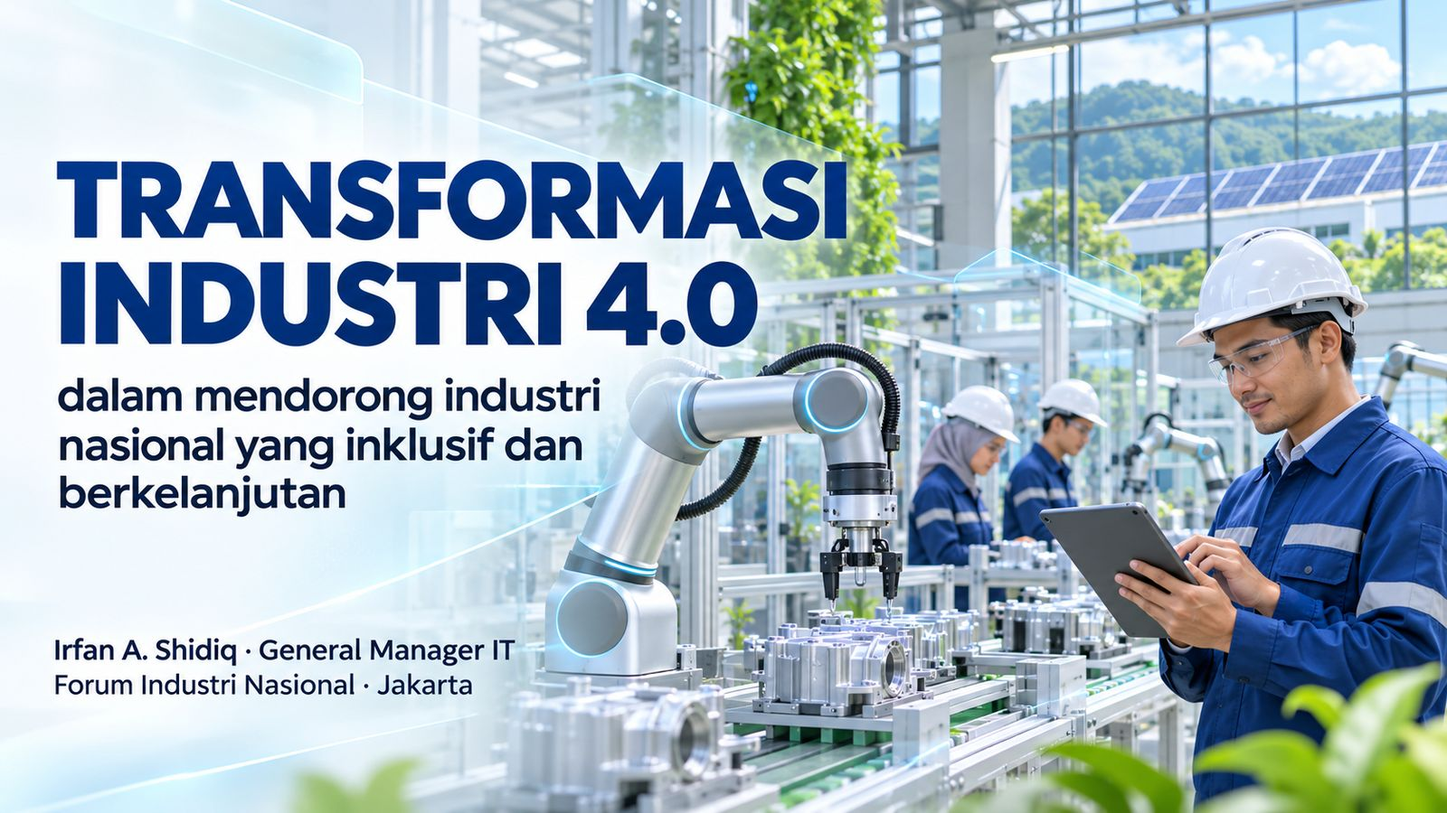
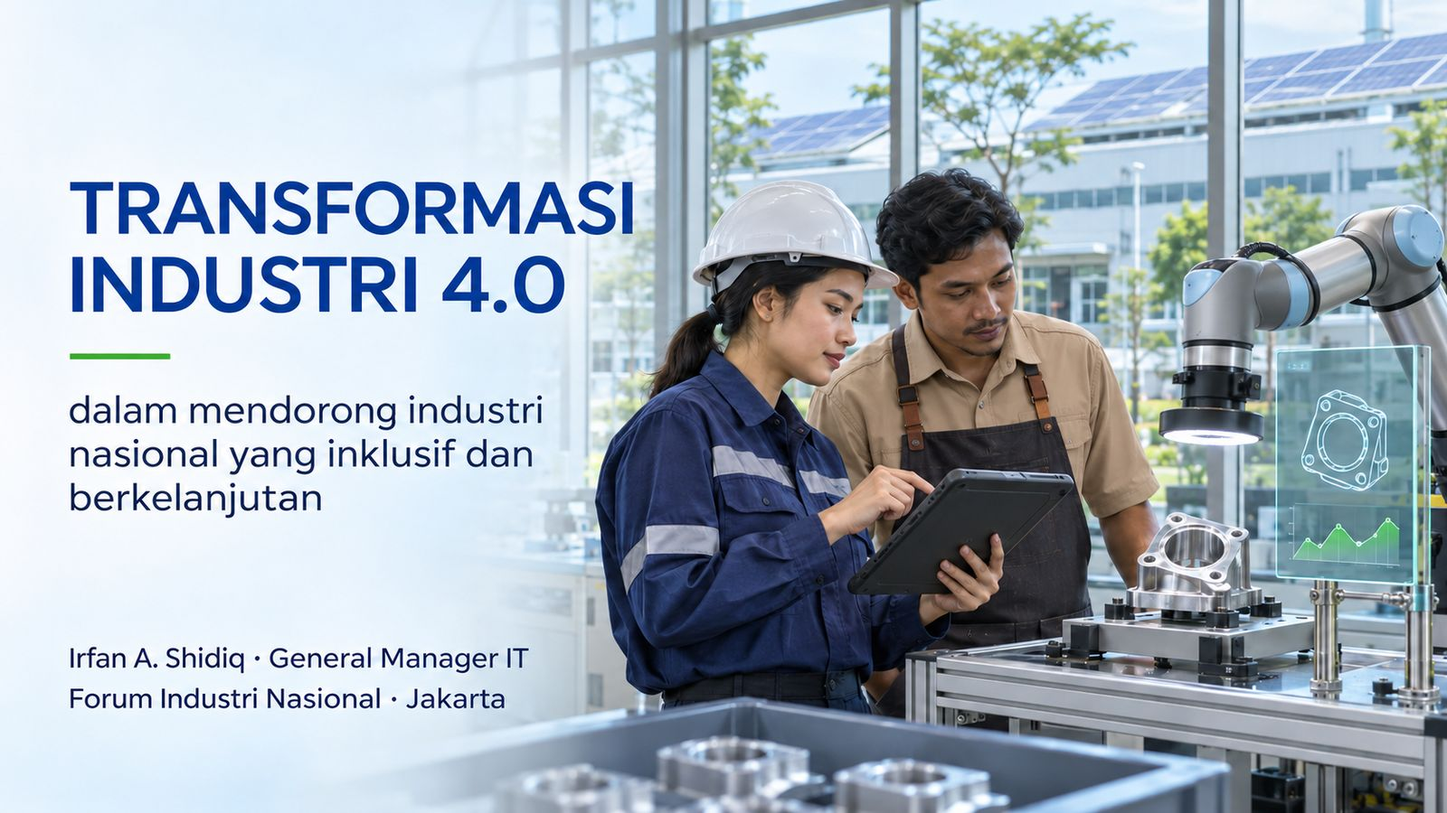
feat: mode poster sebagai satu-satunya gaya utama + perbaikan per slide + README lengkap
- hapus mode hybrid dari alur & dokumentasi; poster (full GPT Image) jadi gaya utama
- --fix N "instruksi": GPT Image mengedit satu slide, desain lain tetap; --options default ke gaya poster
- latar visual mengikuti topik (kantor, data center, kota, lapangan, pemerintahan, pabrik)
- README ditulis ulang: alur 6 langkah, 4 gaya, prinsip desain, cara mengubah isi slide, perintah, FAQ
- showcase baru dari prompt terbaru (font ringan, komposisi bervariasi, anti AI slop)

diff --git a/skills/ias-deck/engine/deck.css b/skills/ias-deck/engine/deck.css
@@ -575,3 +575,26 @@ h1.title.sm { font-size: calc(128px * var(--ts)); } h1.title.xs { font-size: cal
 /* tipografi lebih ringan (semi-bold) */
 .L-kpi .v, .duo .mt .v, .L-split .bigv, .tile .tg, .L-number .nv .v, .ins .iv, .L-vsm .sum .v, .L-scene .sc-c .v, .L-infographic .cv2, .cv .ix, .tl .wh { font-weight: 600 !important; }
 .L-section .num { font-weight: 600; }
+
+/* ================= HYBRID bergaya poster: foto hidup + data di panel kaca + tipografi poster ================= */
+[data-hybrid="on"] .decor, [data-hybrid="on"] .ghost, [data-hybrid="on"] .reticle { display: none !important; }
+[data-hybrid="on"] .slide::after { background: none; }
+[data-hybrid="on"] .title, [data-hybrid="on"] .big, [data-hybrid="on"] .duo .ct, [data-hybrid="on"] .band .nm, [data-hybrid="on"] .L-vsm .nm { text-transform: none !important; letter-spacing: -.015em !important; font-weight: 600 !important; }
+[data-hybrid="on"] h2.title { font-size: calc(70px * var(--ts)); }
+[data-hybrid="on"] .kicker::before, [data-hybrid="on"] .kicker::after { display: none; }
+[data-hybrid="on"] .kicker { letter-spacing: .14em; font-size: 20px; margin-bottom: 16px; }
+[data-hybrid="on"] .hero.bd img { filter: saturate(1.05) contrast(1.02); }
+[data-hybrid="on"] .hero.bd::after { background: linear-gradient(180deg, color-mix(in srgb, var(--bg) 92%, transparent) 0%, color-mix(in srgb, var(--bg) 60%, transparent) 18%, transparent 38%), linear-gradient(90deg, color-mix(in srgb, var(--bg) 45%, transparent) 0%, transparent 55%) !important; }
+[data-hybrid="on"] .slide:has(.hero.bd) .fx { display: none; }
+[data-hybrid="on"] .slide:has(.hero.bd) .card, [data-hybrid="on"] .slide:has(.hero.bd) .tbw, [data-hybrid="on"] .slide:has(.hero.bd) .cv {
+  background: linear-gradient(145deg, rgba(255,255,255,.62), rgba(255,255,255,.34)) !important; border: 1.5px solid rgba(255,255,255,.85) !important; outline: none !important; border-radius: 22px !important;
+  backdrop-filter: blur(22px) saturate(170%) !important; box-shadow: 0 30px 60px -28px rgba(10,30,70,.45), inset 0 1px 0 rgba(255,255,255,.9) !important; }
+[data-hybrid="on"] .slide:has(.hero.bd) .cv { clip-path: none; margin-right: 18px; }
+[data-hybrid="on"] .slide:has(.hero.bd) .cv:nth-child(even) { background: linear-gradient(145deg, color-mix(in srgb, var(--a) 26%, rgba(255,255,255,.6)), rgba(255,255,255,.36)) !important; }
+[data-hybrid="on"] .slide:has(.hero.bd) .card::before, [data-hybrid="on"] .slide:has(.hero.bd) .card::after { display: none; }
+[data-hybrid="on"] .L-kpi .card { min-height: 360px; } [data-hybrid="on"] .L-kpi .cards { align-content: end; padding-bottom: 10px; }
+[data-hybrid="on"] .L-kpi .ch { display: none; }
+[data-hybrid="on"] .slide:has(.hero.bd) .take { background: linear-gradient(90deg, rgba(255,255,255,.78), rgba(255,255,255,.45)); backdrop-filter: blur(16px); border-left: 0; border-radius: 16px; }
+[data-hybrid="on"] .ins { background: linear-gradient(160deg, color-mix(in srgb, var(--f) 78%, transparent), color-mix(in srgb, var(--f) 92%, transparent)) !important; backdrop-filter: blur(20px); border: 1.5px solid rgba(255,255,255,.35); }
+[data-hybrid="on"] .chart .gl { opacity: .5; }
+[data-hybrid="on"] .foot { display: none; }

diff --git a/skills/ias-deck/engine/deck.js b/skills/ias-deck/engine/deck.js
@@ -24,7 +24,7 @@
       '--fd': `"${theme.fd}"`, '--fb': `"${theme.fb}"`, '--fm': `"${theme.fm}"`, '--tw': theme.weight || 600,
       '--tu': theme.upper ? 'uppercase' : 'none', '--tt': theme.upper ? '.01em' : '-.015em', '--title-scale': theme.titleScale || (theme.upper ? .92 : 1) };
     Object.entries(v).forEach(([k, val]) => root.style.setProperty(k, val));
-    Object.assign(root.dataset, { theme: theme.id, family: theme.family, card: theme.card, decor: theme.decor, mode: theme.mode, chrome: D.chrome || 'clean' });
+    Object.assign(root.dataset, { theme: theme.id, family: theme.family, card: theme.card, decor: theme.decor, mode: theme.mode, chrome: D.chrome || 'clean', hybrid: D.hybrid ? 'on' : 'off' });
     [theme.fd, theme.fb, theme.fm].forEach(loadFont);
     initFx();
   }

diff --git a/README.md b/README.md
@@ -1,38 +1,16 @@
 # IAS Deck Skill
 
-**Skill pembuat presentasi futuristik bergaya cerah untuk Claude Code & Codex.**
-Cukup minta dalam bahasa biasa — *"buatkan deck 12 slide untuk Forum Kemenperin tentang lean digital factory"* — dan AI akan menyusun alur cerita, memilih layout, lalu menghasilkan:
+**Skill presentasi untuk Claude Code & Codex yang menghasilkan deck bergaya poster sinematik — cerah, penuh visual, dan detail sesuai materi.**
 
-| Keluaran | Untuk apa |
-|---|---|
-| **HTML live** | Tampil di panggung: animasi masuk, efek latar bergerak (HUD, blueprint, wireframe 3D, sirkuit…), presenter mode dengan catatan & timer, ganti tema seketika dengan tombol `T` |
-| **PDF** | Dibagikan ke peserta |
-| **PPTX** | Dikirim ke panitia / diedit di PowerPoint atau Keynote — teks & grafik asli, efek futuristik ikut sebagai latar |
+Cukup minta dalam bahasa biasa:
 
-- **Gaya cinematic tech yang cerah**: latar putih/pucat dengan gradien aurora, panel kaca putih, garis HUD tipis, tipografi display besar
-- **41 tema** dalam 6 keluarga: HUD / Command Center · Blueprint / Engineering · Digital Twin · Smart Factory · Data Terminal · Clean Future
-- **100 gambar hero render AI** (manufaktur, Industri 4.0, AI, robotik, IT, lean, Indonesia/Kemenperin, latar 3D abstrak), dipilih otomatis sesuai judul slide. Galeri: `skills/ias-deck/assets/heroes/index.html`
-- **25 layout** khusus materi industri (termasuk waterfall/bridge, Pareto, angka raksasa, deret pilar berikon, kolase foto gaya poster Kemenperin)
-- **102 ikon** (Lucide), dipasang otomatis sesuai kata kunci di kartu, poin, agenda, proses, roadmap
-- **Design Picker**: satu halaman untuk klik tema + gambar, lalu salin pilihan ke chat AI
-- **Gambar AI khusus per slide** lewat GPT Image (Codex, login akun ChatGPT): `render.mjs deck.json --imagine`
-- **Slide sinematik yang tetap editable**: `scene` (foto AI + angka di panel kaca mengambang) dan `infographic` (ilustrasi 3D AI + kartu penjelasan)
-- **Mode hybrid (default)**: setiap slide = visual GPT Image (tanpa teks) + judul, angka, grafik, ikon dari engine yang akurat & bisa diedit. Alur: outline → `--options` (3 tema) → pilih → `--hybrid --all`
-- **Mode poster (opsional)**: outline → 3 opsi gaya desain (`--options`) → pilih → `--poster` merender tiap slide utuh dengan GPT Image, detail sesuai materi. Keluaran **PDF + PPTX** (+ pemutar HTML)
-- **Review visual otomatis**: `--review` membuat lembar pratinjau semua slide + rubrik penilaian, AI memperbaiki slide yang lemah
-- Angka penting otomatis tampil besar, slide pernyataan/kutipan/agenda otomatis diberi panel foto (tidak ada ruang kosong)
-- Pola dari referensi: kesimpulan per slide, sumber data, panel insight berangka besar, pita sorotan `==frasa==`
-- Layout dasar: KPI, value stream map, siklus PDCA, 8 waste (TIMWOODS), sebelum–sesudah, roadmap, arsitektur berlapis, grafik, tabel, dan lainnya
-- Semua tema lolos uji kontras WCAG, sehingga tetap terbaca di proyektor ruangan besar
-- Logo & warna aksen bisa diganti per acara (Astra, Kemenperin, pribadi)
+> *"Buatkan deck 12 slide untuk Forum Kemenperin tentang transformasi digital di grup otomotif. Durasi 20 menit."*
+
+AI akan menyusun alur cerita, menawarkan 3 pilihan gaya desain, lalu — setelah Anda memilih — merender setiap slide utuh dengan **GPT Image** (lewat Codex, memakai akun ChatGPT Anda). Hasil akhirnya **PDF** dan **PPTX** yang siap dipresentasikan.
+
+---
 
 ## Contoh hasil desain
-
-### Mode hybrid (default) — AI Quality Inspection
-Visual setiap slide dibuat GPT Image; judul, angka, grafik, dan ikon digambar engine sehingga akurat dan bisa diedit di PPTX.
-![Mode hybrid](docs/showcase/00-mode-hybrid.jpg)
-
-### Mode poster — setiap slide dirender utuh oleh GPT Image
 
 ### Lean Digital Factory
 ![Sampul Lean Digital Factory](docs/showcase/01-lean-digital-factory-sampul.jpg)
@@ -42,15 +20,49 @@ Visual setiap slide dibuat GPT Image; judul, angka, grafik, dan ikon digambar en
 ![Sampul Transformasi Industri](docs/showcase/02-transformasi-industri-sampul.jpg)
 ![Isi Transformasi Industri](docs/showcase/02-transformasi-industri-isi.jpg)
 
-### AI Predictive Maintenance
-![Sampul AI Predictive Maintenance](docs/showcase/03-ai-predictive-maintenance-sampul.jpg)
-![Isi AI Predictive Maintenance](docs/showcase/03-ai-predictive-maintenance-isi.jpg)
+### AI Quality Inspection
+![Sampul AI Quality Inspection](docs/showcase/03-ai-quality-inspection-sampul.jpg)
+![Isi AI Quality Inspection](docs/showcase/03-ai-quality-inspection-isi.jpg)
 
 ---
 
-## 1. Pasang (sekali saja, ±3 menit)
+## Cara kerjanya (alur standar)
 
-Butuh: Mac dengan **Google Chrome**, **Node.js 18+** (`brew install node`), **Python 3**, dan akses ke repo ini.
+| Langkah | Yang terjadi | Yang Anda lakukan |
+|---|---|---|
+| **1. Brief** | AI menanyakan maksimal 3 hal: topik & acara, durasi, nuansa. | Jawab singkat, atau langsung beri detail di permintaan. |
+| **2. Outline** | AI menampilkan tabel alur slide: nomor, jenis slide, judul, angka penting. Belum ada gambar yang dibuat. | Setujui atau minta ubah. |
+| **3. Opsi gaya** | Sampul + 1 slide isi dirender dalam **3 gaya** sekaligus (±3 menit). | Pilih: *"Pakai Gaya B"*. |
+| **4. Generate penuh** | Semua slide dirender dengan gaya pilihan — 4 proses berjalan paralel (±1–2 menit per 3 slide). | Tunggu. |
+| **5. Pemeriksaan** | AI memeriksa setiap slide: ejaan, angka, kecocokan visual dengan materi, tanda "AI slop". Slide yang bermasalah diperbaiki. | Minta perubahan bila perlu: *"slide 4 angkanya jadi 50%"*. |
+| **6. Hasil** | `nama-poster.pdf`, `nama-poster.pptx` (dengan catatan pembicara), dan `nama-poster.html` (presentasi di browser). | Presentasikan. |
+
+### Pilihan gaya
+
+| Gaya | Karakter | Cocok untuk |
+|---|---|---|
+| **A · Glass Tech** (`glass`) | Cerah putih-biru, foto realistis, panel kaca hologram berisi angka, ikon 3D | Keynote teknologi, digitalisasi, AI |
+| **B · Editorial Nasional** (`editorial`) | Poster institusi navy & hijau, kolase foto bersudut/heksagon, pita sorotan, deret ikon bulat | Forum kementerian, acara resmi, kebijakan |
+| **C · Isometric 3D** (`isometric`) | Dunia ilustrasi 3D isometrik yang bersih dan ramah | Penjelasan proses, edukasi, konsep sistem |
+| **D · Cinematic Sunrise** (`cinematic`) | Fotografi sinematik cahaya pagi, hangat dan megah | Visi, pembukaan acara, penutupan |
+
+### Materi apa saja
+Latar visual mengikuti topik — **bukan selalu pabrik**: kantor & ruang rapat (strategi, SDM, budaya kerja), data center & ruang kendali (IT, AI, keamanan siber), kota pintar & layanan (digitalisasi), tambang/perkebunan/konstruksi/logistik (operasi lapangan), gedung pemerintahan (kebijakan), kampus (pelatihan), dan pabrik bila memang membahas manufaktur.
+
+### Prinsip desain yang dijaga otomatis
+- **Satu slide, satu pesan.** Judul berupa kesimpulan, bukan topik.
+- **Teks singkat, visual detail.** Judul ≤ 8 kata, label ≤ 4 kata; isi materi lengkap dipakai sebagai petunjuk gambar sehingga setiap poin divisualkan secara spesifik.
+- **Komposisi bervariasi.** Foto utama, kartu data dalam adegan, diagram 3D, tipografi besar, perbandingan split — dua slide berurutan tidak pernah sama.
+- **Grafik sesuai makna data.** Tren → garis, perbandingan → batang, peringkat → batang horizontal, porsi → donut. Grafik *waterfall* maksimal satu per deck.
+- **Anti "AI slop".** Satu fokus visual per slide, cahaya dan proporsi realistis, tanpa glow berlebihan, ikon melayang acak, dashboard palsu, wajah plastik, atau gradien ungu.
+- **Tipografi elegan.** Judul semi-bold, label regular — tidak tebal berlebihan.
+- **Angka tidak dikarang.** Bila data belum ada, slide diberi label "(data ilustrasi)".
+
+---
+
+## 1. Pemasangan (sekali, ±3 menit)
+
+**Kebutuhan:** Mac · [Google Chrome](https://google.com/chrome) · [Node.js 18+](https://nodejs.org) (`brew install node`) · Python 3 · [Codex CLI](https://github.com/openai/codex) yang sudah login akun ChatGPT.
 
 ```bash
 git clone --recurse-submodules https://github.com/ffaizdaffa/ias-deck-skill.git
@@ -58,100 +70,116 @@ cd ias-deck-skill
 ./install.sh
 ```
 
-Installer akan:
-1. memeriksa Node, Chrome, Python, lalu memasang `python-pptx`;
-2. menyalin skill `ias-deck` ke `~/.claude/skills/` **dan** `~/.codex/skills/`;
-3. memasang 3 skill bundel (lihat bagian 5);
-4. memasang 31 keluarga font tema (Google Fonts) agar PPTX tampil persis.
-
-Opsi: `./install.sh --lite` (IAS Deck saja) · `./install.sh --no-fonts`.
-**Update:** `git pull --recurse-submodules && ./install.sh`
-
-## 2. Pakai
-
-**Alur yang disarankan:**
-1. Buka `out/picker.html` (dibuat oleh installer), klik **1 tema** dan beberapa **gambar**, tekan **Salin pilihan**.
-2. Buka sesi **baru** Claude Code atau Codex, tempel pilihan tadi, lalu tulis permintaan. Kalau tema belum dipilih, AI akan membuka Design Picker dulu.
-3. Opsional: minta *"buatkan gambar AI khusus tiap slide"* — AI menjalankan `--imagine` (butuh `codex login` dengan akun ChatGPT, ±1 menit per gambar).
-
-Contoh permintaan:
-
-> Buatkan deck 15 slide untuk keynote 25 menit di Forum Industri 4.0 Kemenperin. Topik: lean manufacturing ketemu digital — OEE, SMED, value stream, roadmap 18 bulan. Pembicara Irfan A. Shidiq, GM IT. Tema bp-classic, logo di ./logo.png.
-
-AI akan menampilkan alur cerita, menulis file `deck/*.json`, merender, mengecek teks yang meluber, lalu memberikan path filenya.
-
-Revisi cukup lewat chat: *"slide 5 jadi value stream map"*, *"ganti ke tema clean-merahputih"*, *"tambah slide sebelum–sesudah changeover"*.
-
-### Tombol saat presentasi (buka file `.html` di Chrome)
-| Tombol | Fungsi |
-|---|---|
-| `F` | layar penuh |
-| `→` `←` / klik kanan–kiri | pindah slide |
-| `P` | **presenter mode** di jendela kedua: slide sekarang & berikutnya, catatan, timer |
-| `G` / `Esc` | ikhtisar semua slide |
-| `T` / `Shift+T` | ganti tema (coba 40 tema secara langsung) |
-| `B` | layar gelap |
-| `?` | bantuan |
-
-## 3. Galeri tema
+Login Codex (sekali saja, pilih *Sign in with ChatGPT*):
 
 ```bash
-node skills/ias-deck/engine/render.mjs --gallery --out out && open out/gallery.html
+codex login
 ```
-Daftar lengkap & rekomendasi per jenis acara: [`skills/ias-deck/references/themes.md`](skills/ias-deck/references/themes.md).
 
-Rekomendasi cepat: forum resmi Kemenperin → `clean-merahputih`, `clean-porcelain`, `hud-arctic` · keynote IT/AI → `hud-cobalt`, `hud-ion`, `twin-hologram` · lean/shop-floor → `bp-classic`, `fac-safety`.
+Installer akan:
+1. memeriksa Node, Chrome, Python, dan memasang `python-pptx`;
+2. memasang skill `ias-deck` ke `~/.claude/skills/` **dan** `~/.codex/skills/`;
+3. memasang 3 skill pendukung (bagian 6);
+4. memasang font tema;
+5. menyiapkan halaman pemilih tema (`out/picker.html`) dan memeriksa Codex.
 
-Gambar hero: buka `skills/ias-deck/assets/heroes/index.html`, lalu sebut id-nya ke AI (mis. *"sampul pakai mfg-digital-twin"*).
+**Memperbarui:** `git pull --recurse-submodules && ./install.sh`
 
-## 4. Pakai manual (tanpa AI)
+---
+
+## 2. Cara memakai
+
+Buka sesi **baru** Claude Code atau Codex di folder kerja mana pun, lalu tulis permintaan. Contoh:
+
+> *Buatkan deck 10 slide, keynote 20 menit di seminar Kemenperin. Topik: AI untuk predictive maintenance di pabrik komponen otomotif. Pembicara Irfan A. Shidiq, GM IT. Data: downtime turun 45%, biaya suku cadang turun 20%.*
+
+> *Buat deck 8 slide tentang strategi digitalisasi layanan keuangan untuk rapat direksi, nuansa formal.*
+
+Selama proses, cukup jawab dengan bahasa biasa:
+- *"Outline-nya oke, lanjut."*
+- *"Pakai Gaya B."*
+- *"Slide 5 angkanya ganti jadi 52%."* → AI memperbaiki slide itu saja.
+- *"Slide 3 gambarnya kurang cocok, ulang."* → AI merender ulang slide itu.
+
+### Hasil yang Anda terima
+| File | Isi |
+|---|---|
+| `out/<nama>-poster.pdf` | Deck siap kirim / cetak |
+| `out/<nama>-poster.pptx` | Satu gambar per slide + catatan pembicara (untuk presenter view PowerPoint/Keynote) |
+| `out/<nama>-poster.html` | Presentasi di browser: `→`/`←` pindah slide, `F` layar penuh |
+
+---
+
+## 3. Mengubah isi slide
+
+Setiap slide adalah satu desain utuh dari GPT Image. Untuk mengubah isi, jangan mengedit di PowerPoint — minta saja ke AI:
+
+| Kebutuhan | Contoh permintaan | Yang terjadi |
+|---|---|---|
+| Ganti angka / kata | *"Slide 4, ganti 45% jadi 50%"* | Hanya slide 4 yang diedit; desain lain tetap sama (±1 menit) |
+| Ganti visual | *"Slide 3 gambarnya kurang cocok, tampilkan ruang rapat"* | Slide 3 dirender ulang dengan arahan baru |
+| Tambah / hapus slide | *"Tambah slide roadmap setelah slide 6"* | Outline diperbarui, slide baru dirender dengan gaya yang sama |
+| Ganti gaya seluruh deck | *"Coba gaya Editorial Nasional"* | Seluruh slide dirender ulang dengan gaya baru |
+
+Versi sebelumnya tetap tersimpan, jadi perubahan selalu bisa dibatalkan.
+
+## 4. Perintah manual (tanpa AI)
+
+Semua perintah dijalankan dari folder repo.
 
 ```bash
 E=skills/ias-deck/engine
-node $E/render.mjs skills/ias-deck/examples/lean-kemenperin.json --out out --all   # HTML + PDF + PPTX
-node $E/render.mjs deck.json --theme hud-arctic                                     # coba tema lain
-node $E/render.mjs deck.json --check                                                # cek teks meluber
-node $E/render.mjs --list                                                           # daftar tema & layout
-node $E/check-themes.mjs                                                            # uji kontras 40 tema
+node $E/render.mjs deck.json --options --out out                 # 3 opsi gaya (sampul + 1 slide isi)
+node $E/render.mjs deck.json --poster --out out                  # deck penuh mode poster → PDF + PPTX + HTML
+node $E/render.mjs deck.json --fix 4 "ganti 45% menjadi 50%"     # perbaiki satu slide, sisanya tetap
+node $E/render.mjs deck.json --poster --slides 4 --force         # render ulang satu slide dari nol
+node $E/render.mjs deck.json --all                               # cadangan tanpa Codex (template, bisa diedit)
+node $E/render.mjs --list                                        # daftar tema & jenis slide
 ```
-Format deck: [`skills/ias-deck/references/layouts.md`](skills/ias-deck/references/layouts.md).
 
-## 5. Skill bundel (lisensi MIT, dari komunitas)
+Gaya poster dipilih lewat field `"posterStyle"` di file deck (`glass`, `editorial`, `isometric`, `cinematic`); latar visual lewat `"topic"`.
+Contoh file deck ada di `skills/ias-deck/examples/`. Format lengkap: [`skills/ias-deck/references/layouts.md`](skills/ias-deck/references/layouts.md).
 
-Terpasang otomatis sebagai alternatif kalau ingin gaya lain. Bisa dipanggil langsung di Claude/Codex.
+---
 
-| Skill | Sumber | Kelebihan |
-|---|---|---|
-| `html-ppt` | [lewislulu/html-ppt-skill](https://github.com/lewislulu/html-ppt-skill) | 36 tema HTML, 47 animasi, presenter mode |
-| `frontend-slides` | [zarazhangrui/frontend-slides](https://github.com/zarazhangrui/frontend-slides) | Deck HTML gaya bebas dari kemampuan frontend AI |
-| `ppt-master` | [hugohe3/ppt-master](https://github.com/hugohe3/ppt-master) | PPTX native dari dokumen/PDF, animasi & grafik asli (butuh `pip3 install -r ~/.claude/skills/ppt-master/requirements.txt`) |
-
-Disimpan sebagai git submodule di `vendor/` dengan lisensi aslinya masing-masing. Skill AGPL ([guizang-ppt-skill](https://github.com/op7418/guizang-ppt-skill), [dashi-ppt-skill](https://github.com/chuspeeism/dashi-ppt-skill)) dan yang tanpa lisensi tidak disertakan, hanya ditautkan di sini.
-
-## 6. Struktur
+## 5. Isi repo
 
 ```
 skills/ias-deck/
-  SKILL.md                 instruksi untuk Claude/Codex
-  references/              tema, layout, panduan cerita
-  examples/                contoh deck lean (18 slide)
-  assets/heroes/           100 gambar hero + heroes.json (tag) + index.html (galeri)
+  SKILL.md                  instruksi kerja untuk Claude/Codex (alur, aturan desain, cara memeriksa)
+  references/               panduan jenis slide, tema, cerita, ikon, pustaka gambar
+  examples/                 contoh deck (lean, transformasi industri, AI predictive maintenance, AI quality inspection)
+  assets/heroes/            100 gambar pendukung + galeri (index.html)
   engine/
-    themes.json            40 tema cerah (warna, font, efek, gaya kartu)
-    layouts.mjs            21 layout
-    deck.css / deck.js     tampilan & runtime (navigasi, presenter, animasi)
-    fx.js                  12 efek latar canvas
-    render.mjs             JSON → HTML/PDF/PPTX, galeri, cek overflow
-    export_pptx.py         PPTX editable (python-pptx)
-    check-themes.mjs       uji kontras & kelengkapan tema
-    install-fonts.mjs      pemasang font
-vendor/                    3 skill MIT (submodule)
-tools/build_heroes.py      membangun ulang pustaka hero dari PNG hasil generate
-install.sh
+    render.mjs              perintah utama: poster, opsi gaya, perbaikan slide
+    poster.mjs              mode poster: gaya, arahan visual per slide, aturan anti AI slop, perbaikan slide
+    layouts.mjs, deck.css, deck.js, export_pptx.py   versi cadangan berbasis template (tanpa Codex)
+    themes.json             41 tema warna & tipografi
+docs/showcase/              gambar contoh di README
+install.sh                  pemasang satu perintah
+vendor/                     3 skill pendukung berlisensi MIT
 ```
 
-## Masalah umum
-- **Font di PPTX berbeda** → jalankan ulang `node skills/ias-deck/engine/install-fonts.mjs`, lalu tutup dan buka lagi PowerPoint/Keynote.
-- **"Chrome tidak ditemukan"** → pasang Google Chrome, atau set `CHROME=/path/ke/chrome`.
-- **Font tidak muncul di HTML** → HTML memuat font dari Google Fonts, jadi butuh internet. Kalau tampil offline, font yang sudah terpasang lewat installer tetap dipakai.
-- **Skill tidak terdeteksi** → pastikan memulai sesi Claude/Codex *baru* setelah install.
+---
+
+## 6. Skill pendukung (lisensi MIT)
+
+Terpasang otomatis sebagai alternatif: `html-ppt` (deck HTML beranimasi), `frontend-slides` (deck HTML gaya bebas), `ppt-master` (PPTX native dari dokumen). Masing-masing tetap memakai lisensi aslinya di folder `vendor/`.
+
+---
+
+## 7. Pertanyaan umum
+
+**Berapa lama membuat satu deck?** Outline ±1 menit, opsi gaya ±3 menit, deck 10 slide ±4–6 menit.
+
+**Apakah ada biaya tambahan?** Gambar dibuat lewat Codex memakai kuota akun ChatGPT Anda; tidak ada layanan lain yang ditagih.
+
+**Teks di slide salah ketik / angka keliru?** Minta perbaikan: *"slide 6, ganti 'Goresan' jadi 'Gores'"* — hanya slide itu yang diedit.
+
+**Bisa diedit di PowerPoint?** Setiap slide berupa gambar desain utuh. Perubahan isi dilakukan lewat permintaan ke AI (lihat bagian 3) — lebih cepat dan desain tetap rapi.
+
+**Bisa pakai logo perusahaan?** Ya. Visual AI sengaja tanpa logo; logo resmi ditempel di PPTX akhir (misalnya di pojok setiap slide).
+
+**Codex belum login?** Jalankan `codex login` (pilih *Sign in with ChatGPT*). Tanpa Codex, AI hanya bisa membuat versi template sederhana sebagai cadangan.
+
+**Skill tidak muncul?** Pastikan membuka sesi Claude Code/Codex **baru** setelah `./install.sh`.

diff --git a/skills/ias-deck/SKILL.md b/skills/ias-deck/SKILL.md
@@ -1,6 +1,6 @@
 ---
 name: ias-deck
-description: Bikin presentasi/deck/PPT/slide futuristik berkelas dunia bergaya CERAH — default MODE HYBRID: visual GPT Image (Codex) di setiap slide + teks, angka, grafik, ikon yang akurat & editable (cinematic tech, panel kaca putih, HUD tipis, gradien aurora) — 40 tema (HUD, blueprint, digital twin, smart factory, data terminal, clean future), 100 gambar hero AI (manufaktur, AI, robotik, IT, Indonesia/Kemenperin) & 21 layout industri (KPI, value stream map, PDCA, TIMWOODS, roadmap, arsitektur, grafik). Keluaran HTML live beranimasi + PDF + PPTX yang bisa diedit. Pakai saat diminta "buat deck/PPT/slide/presentasi/materi pembicara/keynote", terutama topik lean manufacturing, industri 4.0, transformasi digital, IT.
+description: Bikin presentasi/deck/PPT/slide futuristik berkelas dunia bergaya CERAH — default MODE POSTER: tiap slide dirender utuh oleh GPT Image (Codex) setelah user memilih dari 3 opsi gaya; bisa diperbaiki per slide (--fix) (cinematic tech, panel kaca putih, HUD tipis, gradien aurora) — 40 tema (HUD, blueprint, digital twin, smart factory, data terminal, clean future), 100 gambar hero AI (manufaktur, AI, robotik, IT, Indonesia/Kemenperin) & 21 layout industri (KPI, value stream map, PDCA, TIMWOODS, roadmap, arsitektur, grafik). Keluaran HTML live beranimasi + PDF + PPTX yang bisa diedit. Pakai saat diminta "buat deck/PPT/slide/presentasi/materi pembicara/keynote", terutama topik lean manufacturing, industri 4.0, transformasi digital, IT.
 ---
 
 # IAS Deck
@@ -74,20 +74,21 @@ Butuh: Node 18+, Google Chrome, Python 3 + `python-pptx` (untuk PPTX), internet 
   `"/Applications/Google Chrome.app/Contents/MacOS/Google Chrome" --headless=new --window-size=1920,1080 --virtual-time-budget=6000 --screenshot=out/s3.png "file://$PWD/out/acara.html?export=3"`
 - Pastikan tidak ada teks terpotong, tumpang tindih, atau kontras buruk.
 
-### 6a. ALUR UTAMA — MODE HYBRID (default): outline → opsi desain → pilih → generate
-Mode hybrid = dalam SATU slide ada dua lapisan: **visual dari GPT Image** (foto adegan / ilustrasi 3D, tanpa teks) + **lapisan informasi dari engine** (judul, angka, grafik akurat, ikon, panel kaca — teks asli, bisa diedit, tanpa salah ketik).
-1. **Outline dulu**: tampilkan tabel alur slide (nomor, layout, judul, isi singkat) → minta persetujuan. Jangan generate sebelum disetujui.
-2. **Opsi desain**: `node SKILL_DIR/engine/render.mjs deck.json --options --out ./out` → visual AI sampul + 1 slide isi dibuat sekali, ditampilkan dalam 3 tema berbeda (`--themes a,b,c` untuk memilih sendiri). Kirim gambar `out/<nama>-opsi/` ke user dan **tunggu pilihannya**.
-3. **Generate penuh**: set `"theme"` sesuai pilihan, lalu `node SKILL_DIR/engine/render.mjs deck.json --hybrid --all --review --out ./out` → setiap slide diberi visual GPT Image yang sesuai perannya (foto penuh untuk sampul/penutup, latar redup di belakang data untuk KPI/grafik/proses, panel foto di samping untuk poin/pernyataan, ilustrasi 3D untuk infographic), dibuat dalam 4 sesi paralel.
-4. **Keluaran**: `out/<nama>.pptx` (teks & grafik editable, visual sebagai gambar) + `out/<nama>.pdf` + `out/<nama>.html` (presentasi di browser).
-5. **Review** `out/<nama>-review.png` dengan rubrik; ganti visual yang lemah: hapus field `hero` slide itu lalu `--hybrid --slides N`.
-- Tulis `desc`, `text`, `notes` selengkap mungkin — dipakai sebagai petunjuk visual agar gambar spesifik terhadap materi.
-- **Materi apa pun, bukan hanya pabrik**: isi `"topic"` di akar deck (mis. "strategi digital grup Astra", "AI untuk layanan keuangan", "budaya kerja kantor hybrid"). Latar visual mengikuti topik & isi tiap slide: kantor/ruang rapat, data center, kota pintar, tambang/perkebunan/lapangan, logistik, gedung pemerintahan, kampus, atau pabrik bila memang manufaktur. Bila perlu, arahkan per slide dengan `"imagine": "deskripsi adegan"`.
-- Nama perusahaan (mis. Astra) boleh di teks slide, tetapi visual AI tidak memuat logo/merek; logo resmi dipasang lewat `brand.logo`.
-- Butuh `codex login` (akun ChatGPT). Tanpa Codex: visual diambil otomatis dari pustaka 100 gambar hero.
+### 6a. ALUR UTAMA — MODE POSTER (default): outline → opsi gaya → pilih → generate → perbaiki
+Setiap slide dirender UTUH oleh GPT Image (lewat Codex, akun ChatGPT): foto/ilustrasi, judul, angka, ikon, dan grafik dirancang sekaligus dalam satu komposisi — hasil paling memukau.
+1. **Outline dulu**: tampilkan tabel alur slide (nomor, layout, judul, isi singkat, angka) → minta persetujuan. Jangan generate sebelum disetujui.
+2. **Opsi gaya**: `node SKILL_DIR/engine/render.mjs deck.json --options --out ./out` → sampul + 1 slide isi dalam 3 gaya (Glass Tech · Editorial Nasional · Isometric 3D; gaya ke-4 `cinematic` via `--styles`). Kirim gambar `out/<nama>-opsi/` ke user, **tunggu pilihannya**.
+3. **Generate penuh**: isi `"posterStyle": "<glass|editorial|isometric|cinematic>"` lalu `node SKILL_DIR/engine/render.mjs deck.json --poster --out ./out` (4 sesi paralel, ±1–2 menit per 3 slide).
+4. **Periksa setiap slide** (ejaan, angka, kecocokan visual dengan materi, tanda AI slop). Perbaiki:
+   - ubah kecil (angka/kata/objek): `--fix N "ganti 45% menjadi 50%"` → GPT Image mengedit slide itu saja, sisanya tetap.
+   - ulang total satu slide: `--poster --slides N --force`.
+5. **Keluaran**: `out/<nama>-poster.pdf` + `out/<nama>-poster.pptx` (satu gambar per slide + catatan pembicara) + `out/<nama>-poster.html` (presentasi di browser).
+- Isi per slide singkat (judul ≤ 8 kata, label ≤ 4 kata, ≤ 4 angka) supaya ejaan akurat; isi `desc`, `text`, `notes` selengkap mungkin sebagai petunjuk visual.
+- Isi `"topic"` agar latar visual sesuai materi (kantor, data center, kota, tambang, pemerintahan, pabrik, dll.).
+- Butuh `codex login` (akun ChatGPT).
 
-### 6a-2. Mode poster (opsional)
-Setiap slide dirender utuh oleh GPT Image (teks ikut digambar, tidak bisa diedit, bisa salah ketik). Pakai bila user secara khusus minta poster / gambar untuk dibagikan: `--options --poster` (opsi gaya) lalu `--poster` (isi `"posterStyle"`). Keluaran `<nama>-poster.pdf/.pptx/.html`.
+### 6a-2. Cadangan tanpa Codex
+Bila Codex belum login dan user tidak bisa login sekarang, render mode editable (tanpa flag) sebagai cadangan sementara, lalu sarankan `codex login` untuk hasil poster. Untuk mengubah isi slide poster selalu pakai `--fix`, bukan mode lain.
 
 ### 6b. Review visual wajib (agen menilai hasil render)
 Jalankan `node SKILL_DIR/engine/render.mjs deck.json --review` → buka gambar `out/<nama>-review.png` (lembar pratinjau semua slide bernomor) dan nilai setiap slide dengan rubrik yang tercetak. Perbaiki slide yang gagal (ganti layout, tambah visual, perbesar angka, pangkas teks), render & review ulang. Maksimal 2 putaran.
